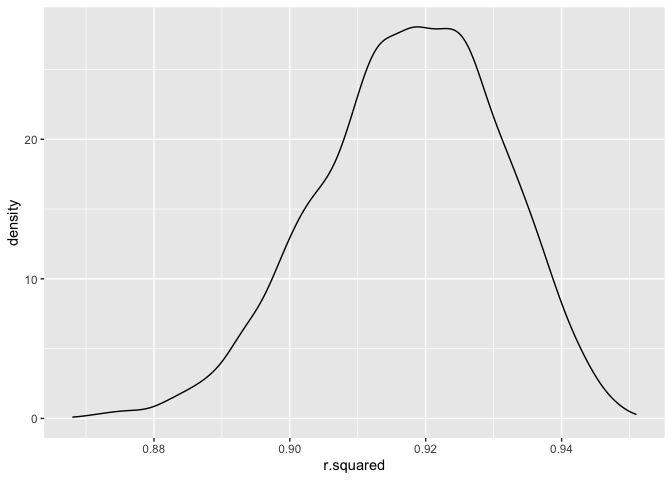
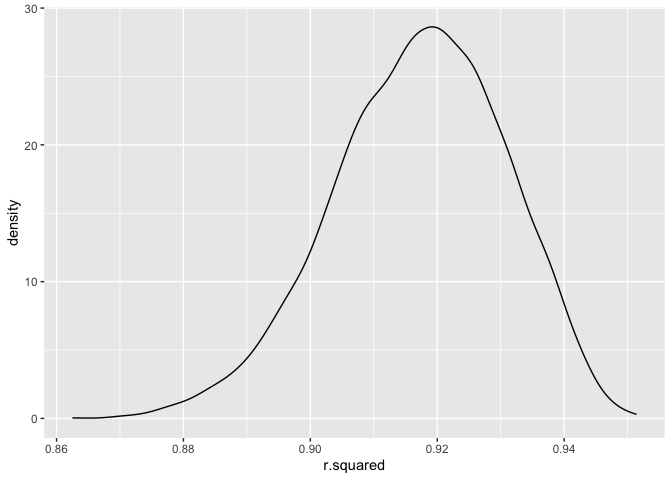
the final version

diff --git a/p8105_hw6_qs2261.md b/p8105_hw6_qs2261.md
@@ -90,7 +90,7 @@ log_beta |>
   geom_density()
 ```
 
-    ## Warning: Removed 3383 rows containing non-finite values (`stat_density()`).
+    ## Warning: Removed 3373 rows containing non-finite values (`stat_density()`).
 
 ![](p8105_hw6_qs2261_files/figure-gfm/unnamed-chunk-4-1.png)<!-- -->
 
@@ -118,9 +118,9 @@ log_beta_sum =
   )
 ```
 
-The 95% CI for R squared is from 0.8898596 to -4.5687042.
+The 95% CI for R squared is from 0.8883706 to -4.5748126.
 
-The 95% CI for log_beta1_beta2 is from -9.2914709 to -4.5687042.
+The 95% CI for log_beta1_beta2 is from -9.133268 to -4.5748126.
 
 ## Problem 3
 
@@ -200,7 +200,7 @@ birthweight_df |>
   modelr::add_predictions(fit) |> 
   modelr::add_residuals(fit) |> 
   ggplot(aes(x = pred, y = resid)) +
-  geom_point() +
+  geom_point(alpha = 0.5) +
   labs(
     title = "model residuals against fitted values ", 
     x = ("Fitted Value"),
@@ -210,9 +210,10 @@ birthweight_df |>
 
 ![](p8105_hw6_qs2261_files/figure-gfm/unnamed-chunk-9-1.png)<!-- -->
 
-- The pattern of scatter plot between predictions and residuals is not
-  random, and in a cluster, which means this model does not meet the
-  assumption of linear regression model.
+- The scatter plot of fitted values against residuals indicates a
+  favorable pattern, with a uniform distribution around zero. Overall,
+  the model appears reliable in explaining the relationship between the
+  dependent and independent variables.
 
 ### Compare my model to two others:
 
